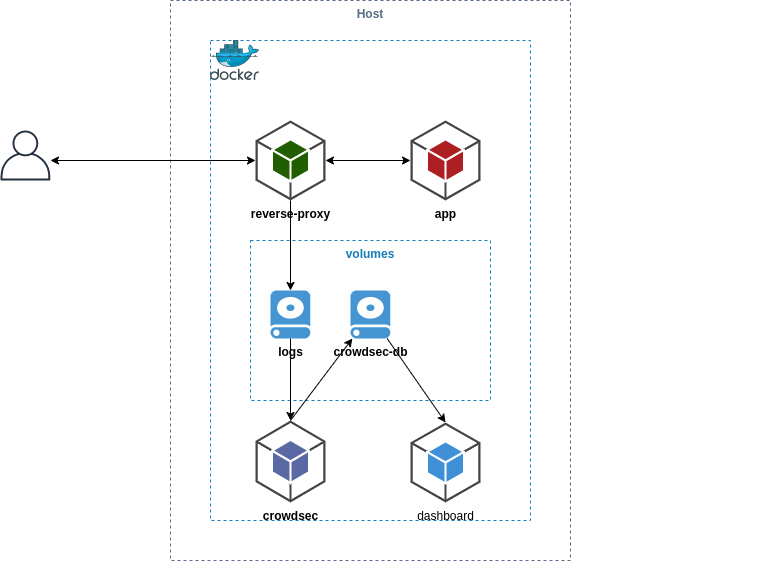
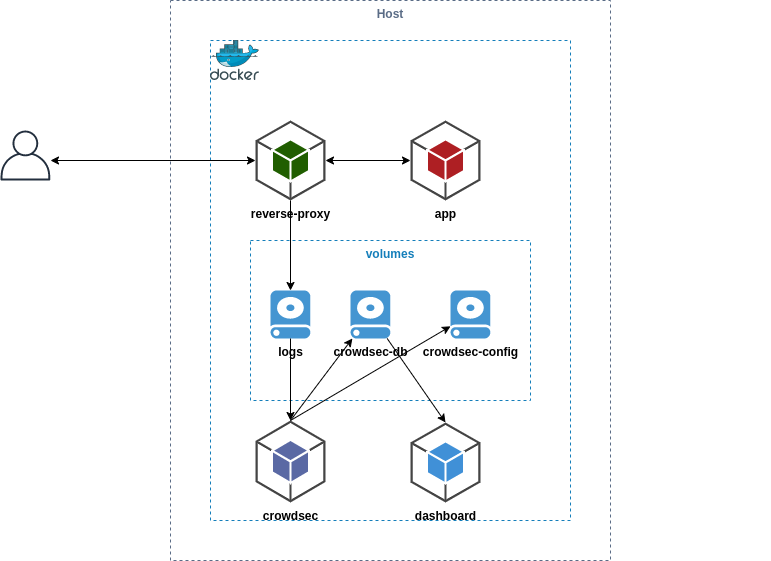
update doc and schema

diff --git a/examples/docker-compose/README.md b/examples/docker-compose/README.md
@@ -1,17 +1,37 @@
 # Docker Compose
 
-This example explains how to integrate crowdsec in environment deployed with docker-compose. It set up multiple containers :
+This example explains how to integrate Crowdsec in environment deployed with docker-compose. It set up multiple containers :
 
 ![Schema](schema.png)
 
+This example contains multiple containers :
+* app : apache server serving index.html containing an `hello world`
+* reverse-proxy : nginx that serving this app from the host
+* crowdsec : it will read reverse-proxy logs from the shared volume
+* dashboard : we use [metabase](https://hub.docker.com/r/metabase/metabase) to display crowdsec database data.
+
+We have chosen the simplest way to collect logs (by sharing volumes between containers), if you are in production you are probably using logging-driver to centralize logs with rsyslog or another driver, so don't forget to adapt the crowdsec docker-compose configuration to read the logs properly.
+
 **Prerequisites:** [Docker](https://docs.docker.com/engine/install/) / [Docker Compose](https://docs.docker.com/compose/install/)
 
-## Step 0: Create docker-compose.yml
+## Step 1: Run all services in docker-compose.yml
 
-## Step 1: Create crowdsec with config + dashboard
+[docker compose file](docker-compose.yml) contains the yaml configuration to deploy all the containers together by on command.
 
-## Step 2: Start the Containers
+Deploy the stack using : `docker-compose up -d`
 
-## Step 3: Install bouncer on host
+Then to see the status : `docker-compose ps`
+
+## Step 2: Install & Configure bouncer on host
+
+
+## Step 3: Configure dashboard
+
+The dashboard is deployed using static metabase.db ([explained here](https://docs.crowdsec.net/faq/#how-to-have-a-dashboard-without-docker)), so you have to use the defaults credentials to connect to the database, then update immediatly those credentials.
+
+Then you need to update the crowdsec database path :
+* Go to `http://localhost:3003/` and connect with defaults credentials
+* Go to `http://localhost:3003/admin/databases/2` and modify the file path `/var/lib/crowdsec/data/crowdsec.db`
+* Save changes and go back to the home, you'll see the active decisions pulled from the online API.
 
 ## Step 4: Simulate an attack and check detection + prevention
